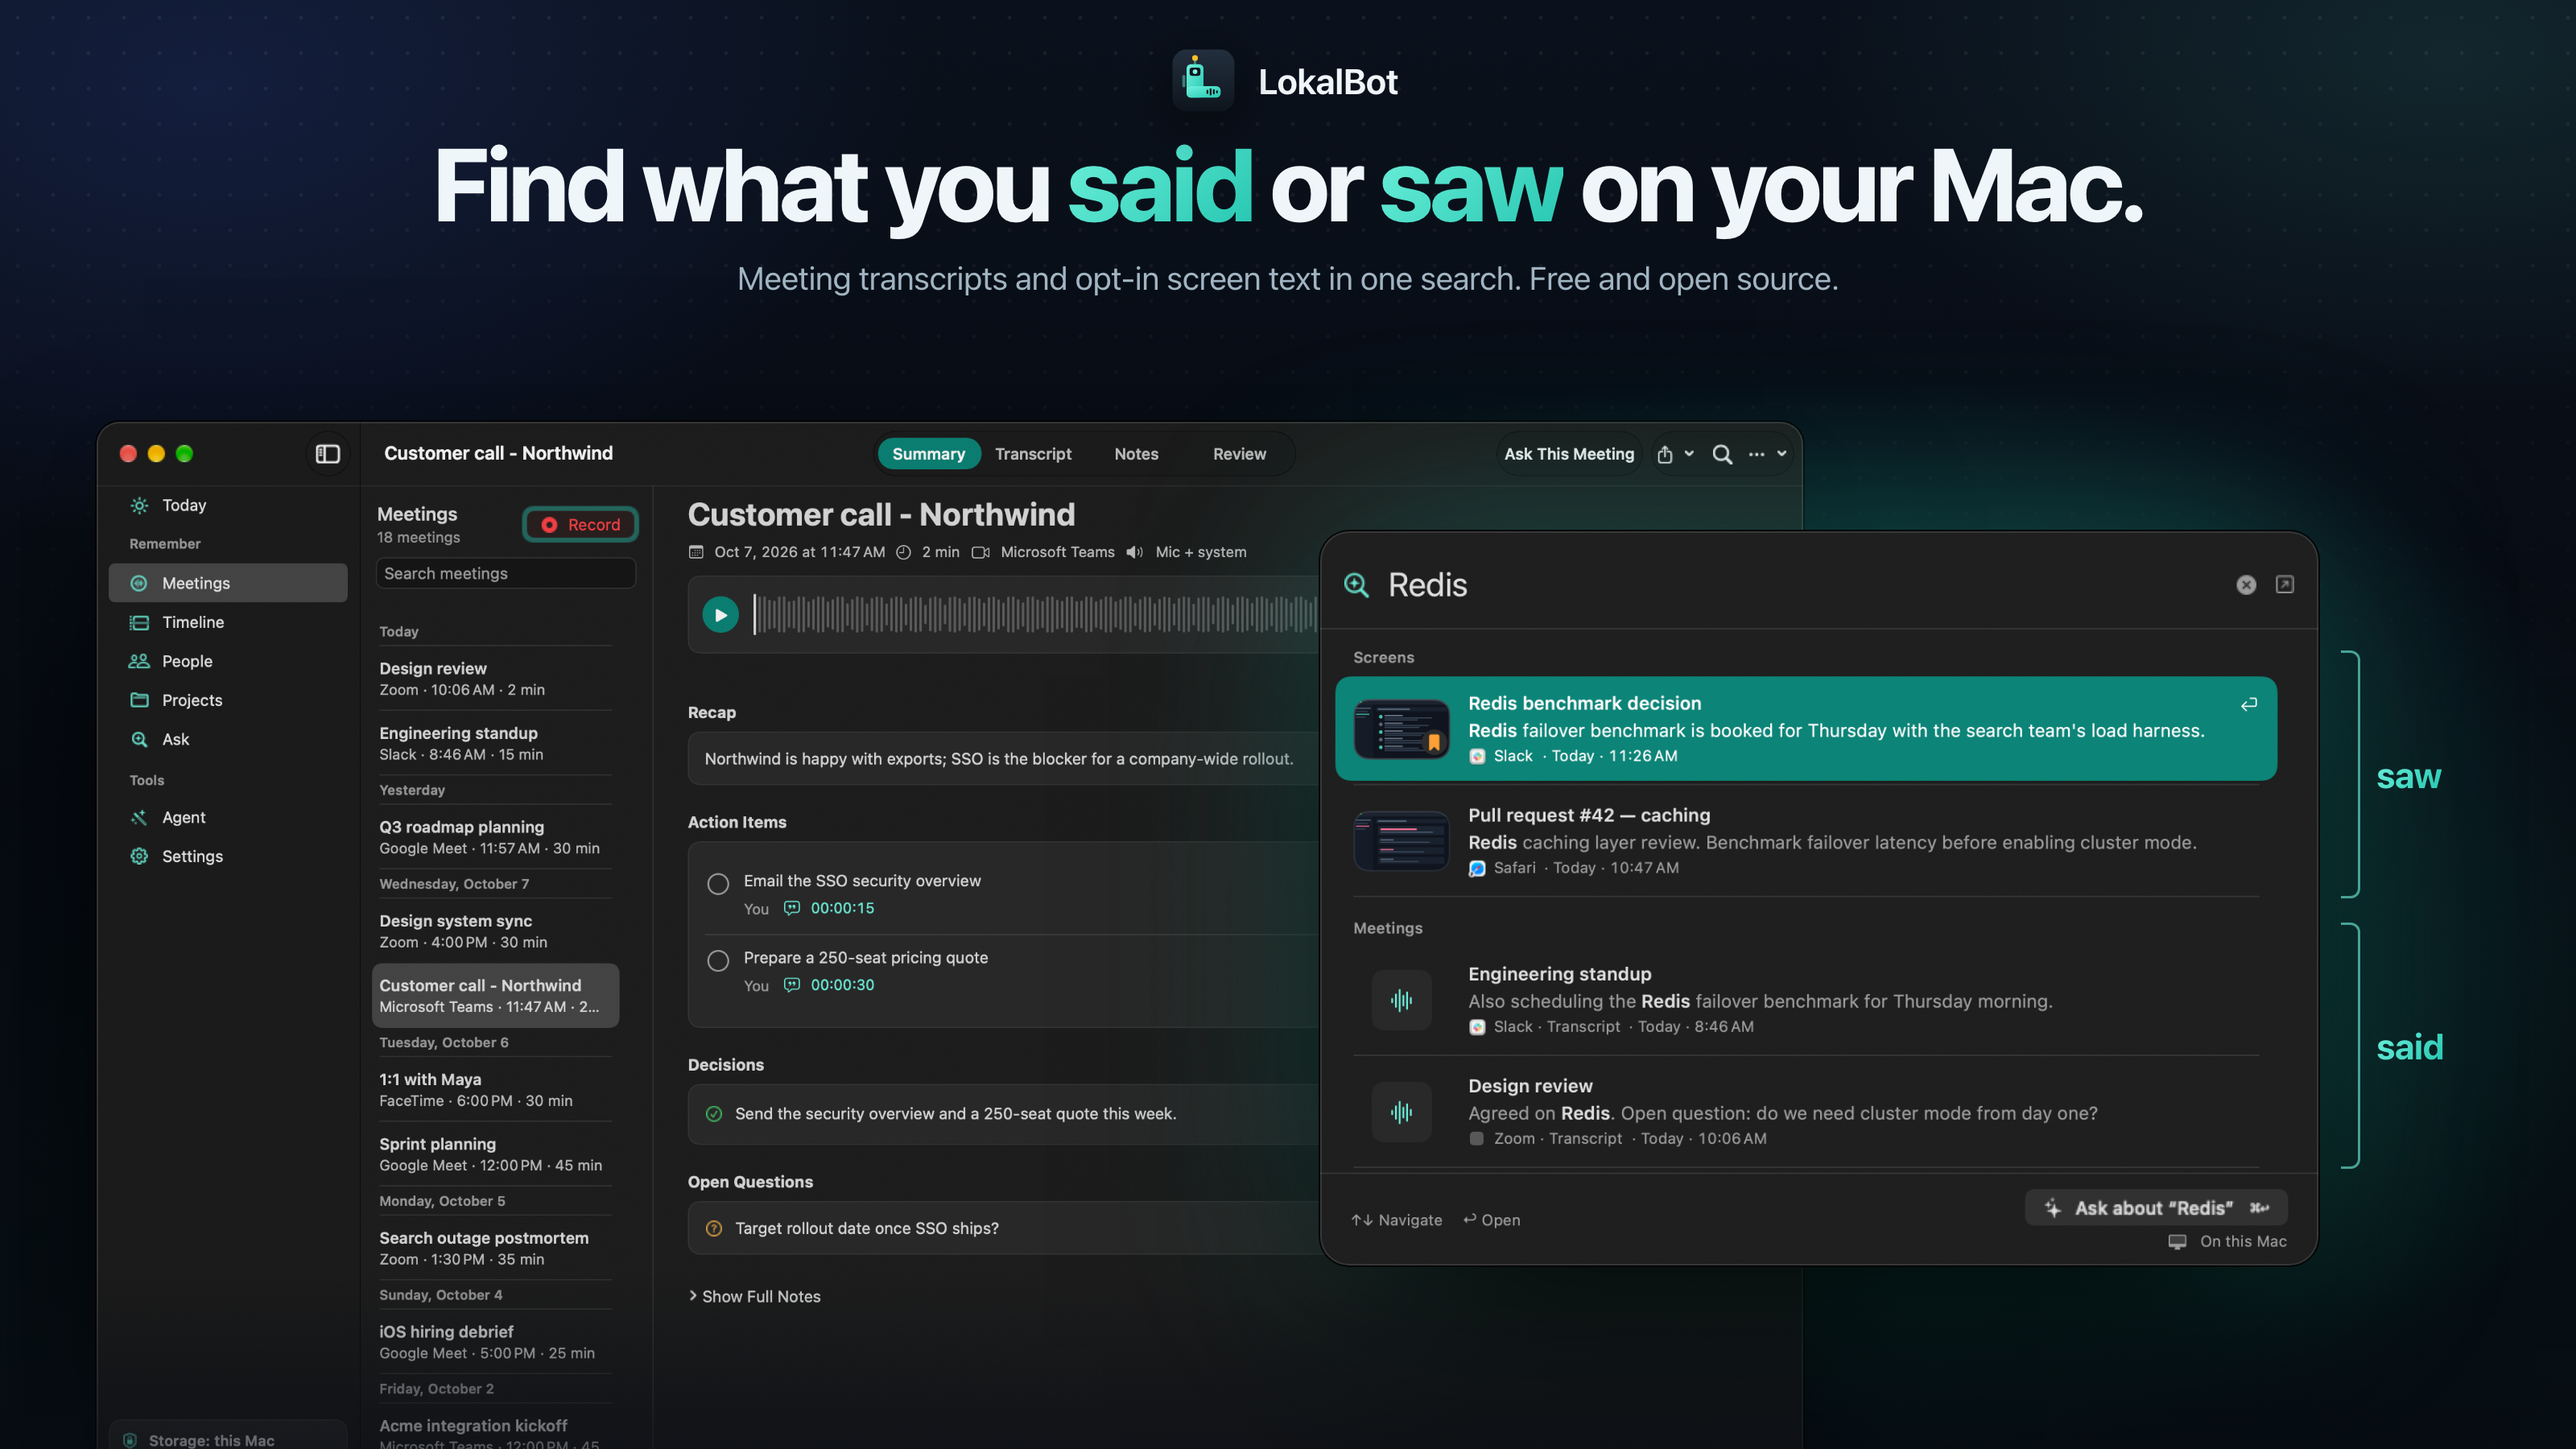
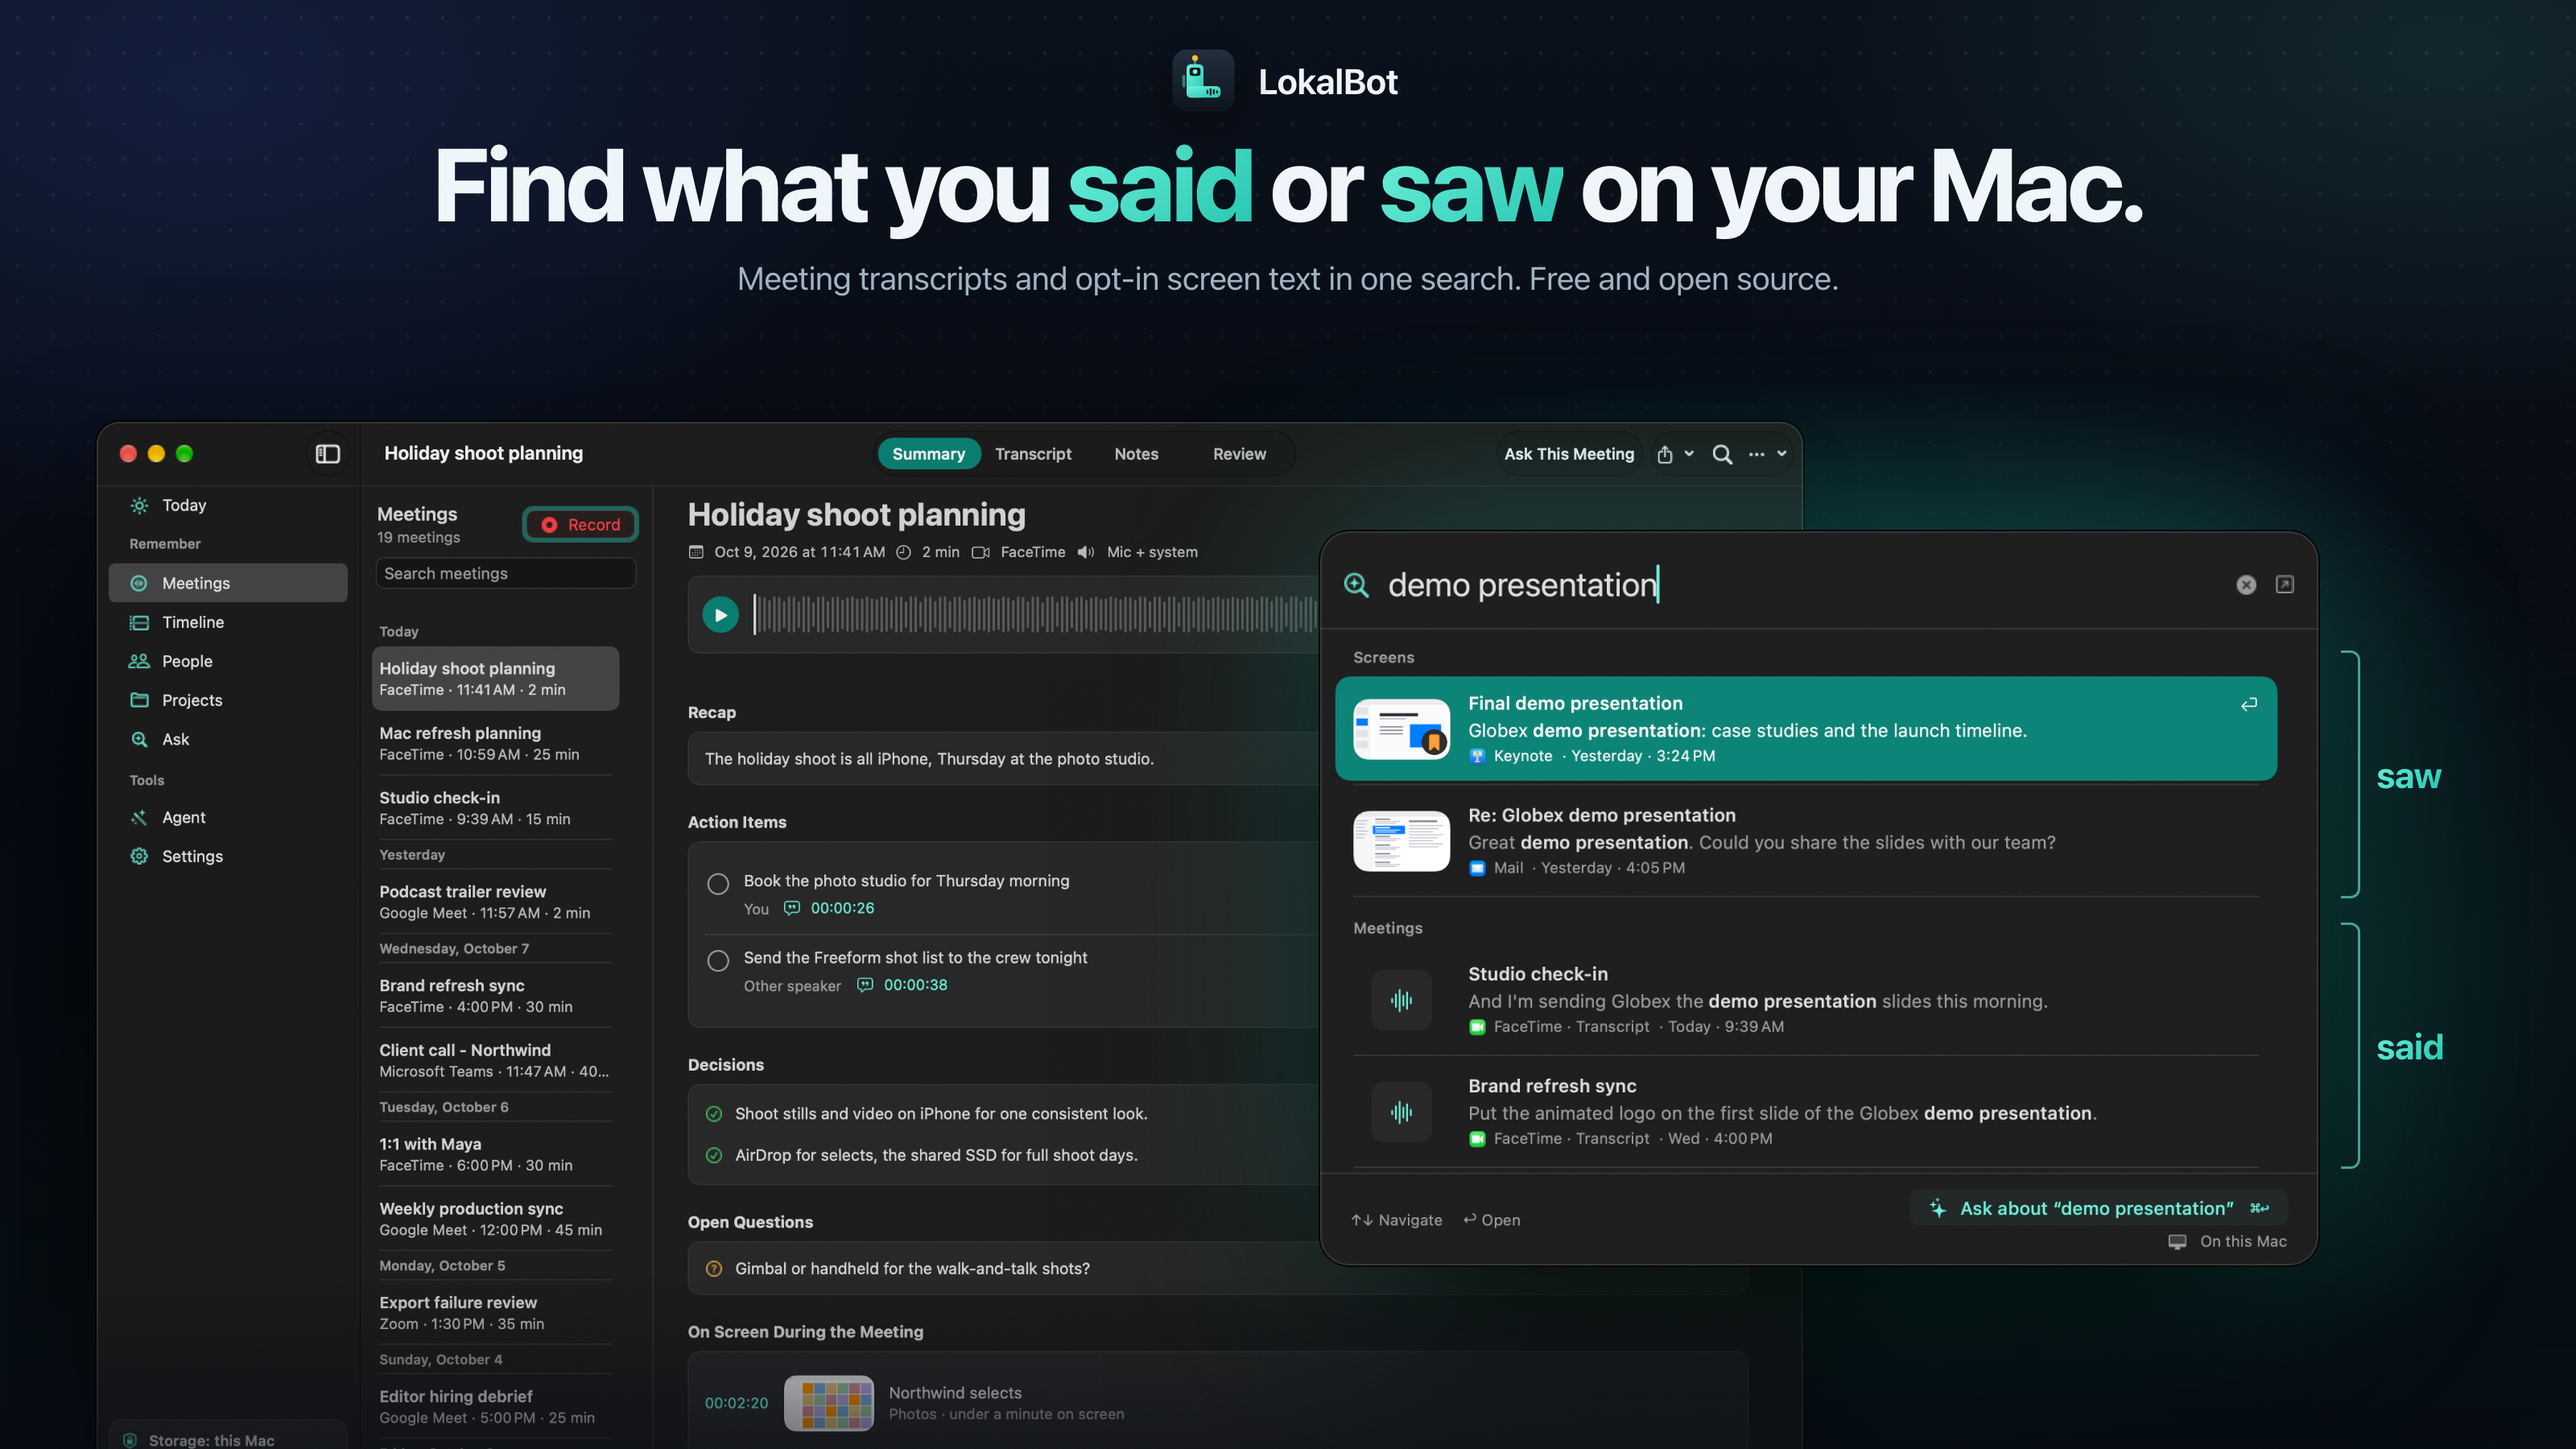
Show the demo presentation search in the README hero
The README hero still paired its meeting with a "MacBook" search, right under
a headline that ends "on your Mac". Both appearances now show the holiday
shoot planning call beside a search for "demo presentation", the same example
as the homepage hero, so light and dark show the same content.

All four captures come from one studio-profile library on v0.10.2, and
Assets/hero/README.md records the settings and new hashes.

diff --git a/Assets/hero/README.md b/Assets/hero/README.md
@@ -5,27 +5,26 @@ or [lokalbot-hero-dark.png](lokalbot-hero-dark.png), whichever matches the
 viewer's appearance. Each is a composite: two unedited captures of the native
 SwiftUI views on a drawn background, under the tagline, with "saw" and "said"
 labels beside Quick Recall's Screens and Meetings groups. Nothing inside the
-captures was retouched. All content is fictional demo data, and each image
-pairs a meeting with a search on a different topic.
+captures was retouched. All content is fictional demo data from
+`Scripts/seed_demo_library.py --profile studio`. Both images pair the holiday
+shoot planning call with a search on a different topic, "demo presentation";
+the headline already says "Mac", so the search avoids it.
 
-Both were captured on **October 9, 2026** from `master` at
+All four captures came from one seeded library on **October 9, 2026**, so the
+times they show agree. The LokalBot UI Test Host was built from the `v0.10.2`
+release commit
 [`1ade074`](https://github.com/stevyhacker/lokalbot/tree/1ade074a90510866d8909dc17e2e1dde372831b7)
-(0.10.2, build 46) in the isolated LokalBot UI Test Host, with a temporary
-storage root and UserDefaults suite. The installed app and user library were
-not used, and no UI tests were run.
+(build 46) and ran with a temporary storage root and UserDefaults suite. The
+installed app and user library were not used, and no UI tests were run.
 
-| Image | Meeting window | Quick Recall |
-| --- | --- | --- |
-| light | "Holiday shoot planning" from `Scripts/seed_demo_library.py --profile studio` | a "MacBook" search, same profile |
-| dark | "Customer call - Northwind" from the default demo library (`LOKALBOT_SELECT_INDEX=4`), with the Design review's demo audio copied in as its `mic.m4a` and `system.m4a` and `"speakerAliases": {"them": "Dana"}` added to its `transcript.json` | a "Redis" search, default library |
+| Capture | Settings |
+| --- | --- |
+| Meeting window | `LOKALBOT_INITIAL_SECTION=meetings LOKALBOT_SELECT_INDEX=0 LOKALBOT_DETAIL_TAB=summary`, `LOKALBOT_CAPTURE_SIZE=1400x880` at 2× |
+| Quick Recall | `LOKALBOT_UI_TEST_WINDOW=quick-recall LOKALBOT_QUICK_RECALL_QUERY="demo presentation"`, `LOKALBOT_CAPTURE_SIZE=660x512` with `LOKALBOT_CAPTURE_SCALE=4` |
 
-Meeting windows used `LOKALBOT_CAPTURE_SIZE=1400x880` at 2×; Quick Recall used
-`660x512` with `LOKALBOT_CAPTURE_SCALE=4`. Within each image, the two
-captures came from separately seeded libraries; the second pinned today's
-meetings to the clock times the first showed, so the times agree. The light
-pair predates the committed studio profile, which anchors today's meetings to
-the current time and later gained a fuller podcast trailer review with audio,
-so a fresh capture differs in the times shown and in that meeting's list entry.
+Each was captured with `LOKALBOT_CAPTURE_APPEARANCE=light` and `dark`, plus
+`LOKALBOT_DISMISS_ONBOARDING=1` and the rest of the environment from
+`capture()` in `Scripts/capture-screenshots.sh`.
 
 Compose a hero from two captures (requires Google Chrome):
 
@@ -33,10 +32,9 @@ Compose a hero from two captures (requires Google Chrome):
 python3 Scripts/render_readme_hero.py --theme light --meetings meetings.png --recall quick-recall.png --out Assets/hero/lokalbot-hero-light.png
 ```
 
-The script reproduces both published files pixel for pixel from their source
-captures.
+Both published files are that script's output for the captures above.
 
 | File | Dimensions | Bytes | SHA-256 |
 | --- | --- | --- | --- |
[4 lines of base64/hex data omitted]
